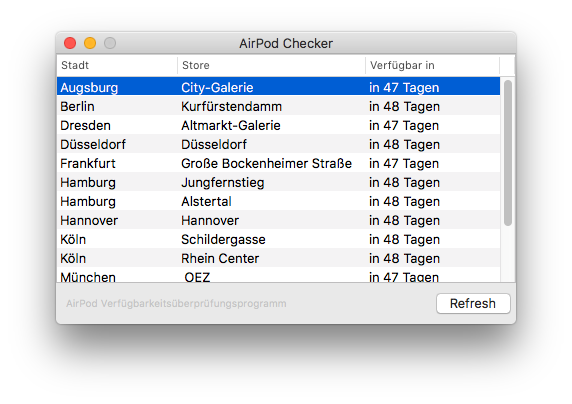
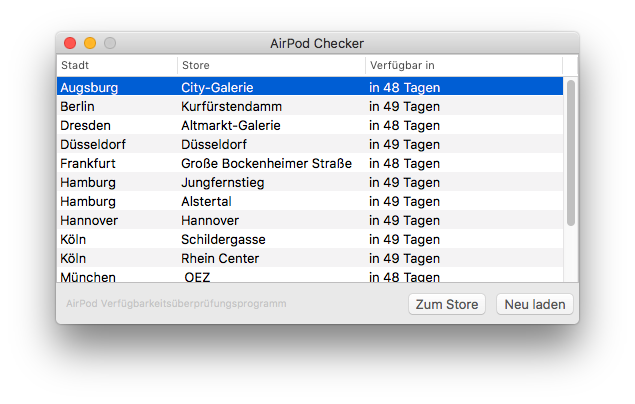
Added button to go to the Apple Store Air Pod Page

diff --git a/AirPod Checker/ViewController.swift b/AirPod Checker/ViewController.swift
@@ -21,9 +21,10 @@ class ViewController: NSViewController
     
     // MARK: - Private constants -
     
-    private let zipSouth = "86150"
-    private let zipNorth = "20095"
-    private let url = "https://www.apple.com/de/shop/retail/pickup-message?parts.0=MMEF2ZM%2FA&location="
+    private let zipSouth    = "86150"
+    private let zipNorth    = "20095"
+    private let jsonUrl     = "https://www.apple.com/de/shop/retail/pickup-message?parts.0=MMEF2ZM%2FA&location="
+    private let storeUrl    = "https://www.apple.com/de/shop/product/MMEF2ZM/A/airpods"
     
     
     // MARK: - Private properties -
@@ -58,6 +59,16 @@ class ViewController: NSViewController
         refreshEntries()
     }
     
+    
+    @IBAction func handleGoToStoreButtonTapped(_ sender: Any)
+    {
+        guard let url = URL(string: storeUrl) else
+        {
+            return
+        }
+        
+        NSWorkspace.shared().open(url)
+    }
     
     // MARK: - Private helper -
     
@@ -101,7 +112,7 @@ class ViewController: NSViewController
     {
         var foundEntries = [AvailableModel]()
         
-        Alamofire.request(url + zip).responseJSON {[weak self] response in
+        Alamofire.request(jsonUrl + zip).responseJSON {[weak self] response in
             
             guard let _self = self else
             {
@@ -258,8 +269,10 @@ class AvailableModel
     {
         self.name               = name
         self.city               = city
-        self.availableDate      = availableDate
-        self.availableInDays    = Date().time(toDate: availableDate, inUnit: .day)
+        self.availableDate      = availableDate.startOfDay
+        
+        let today               = Date().startOfDay
+        self.availableInDays    = today.time(toDate: availableDate, inUnit: .day)
     }
 }
 
@@ -268,6 +281,16 @@ class AvailableModel
 
 extension Date
 {
+    // MARK: - Computed properties -
+    
+    var startOfDay: Date
+    {
+        return Calendar.current.startOfDay(for: self)
+    }
+    
+    
+    // MARK: - Helpers -
+    
     func time(toDate date: Date, inUnit unit: Calendar.Component) -> Int?
     {
         let difference = Calendar.current.dateComponents(Set(arrayLiteral: unit), from: self, to: date)
